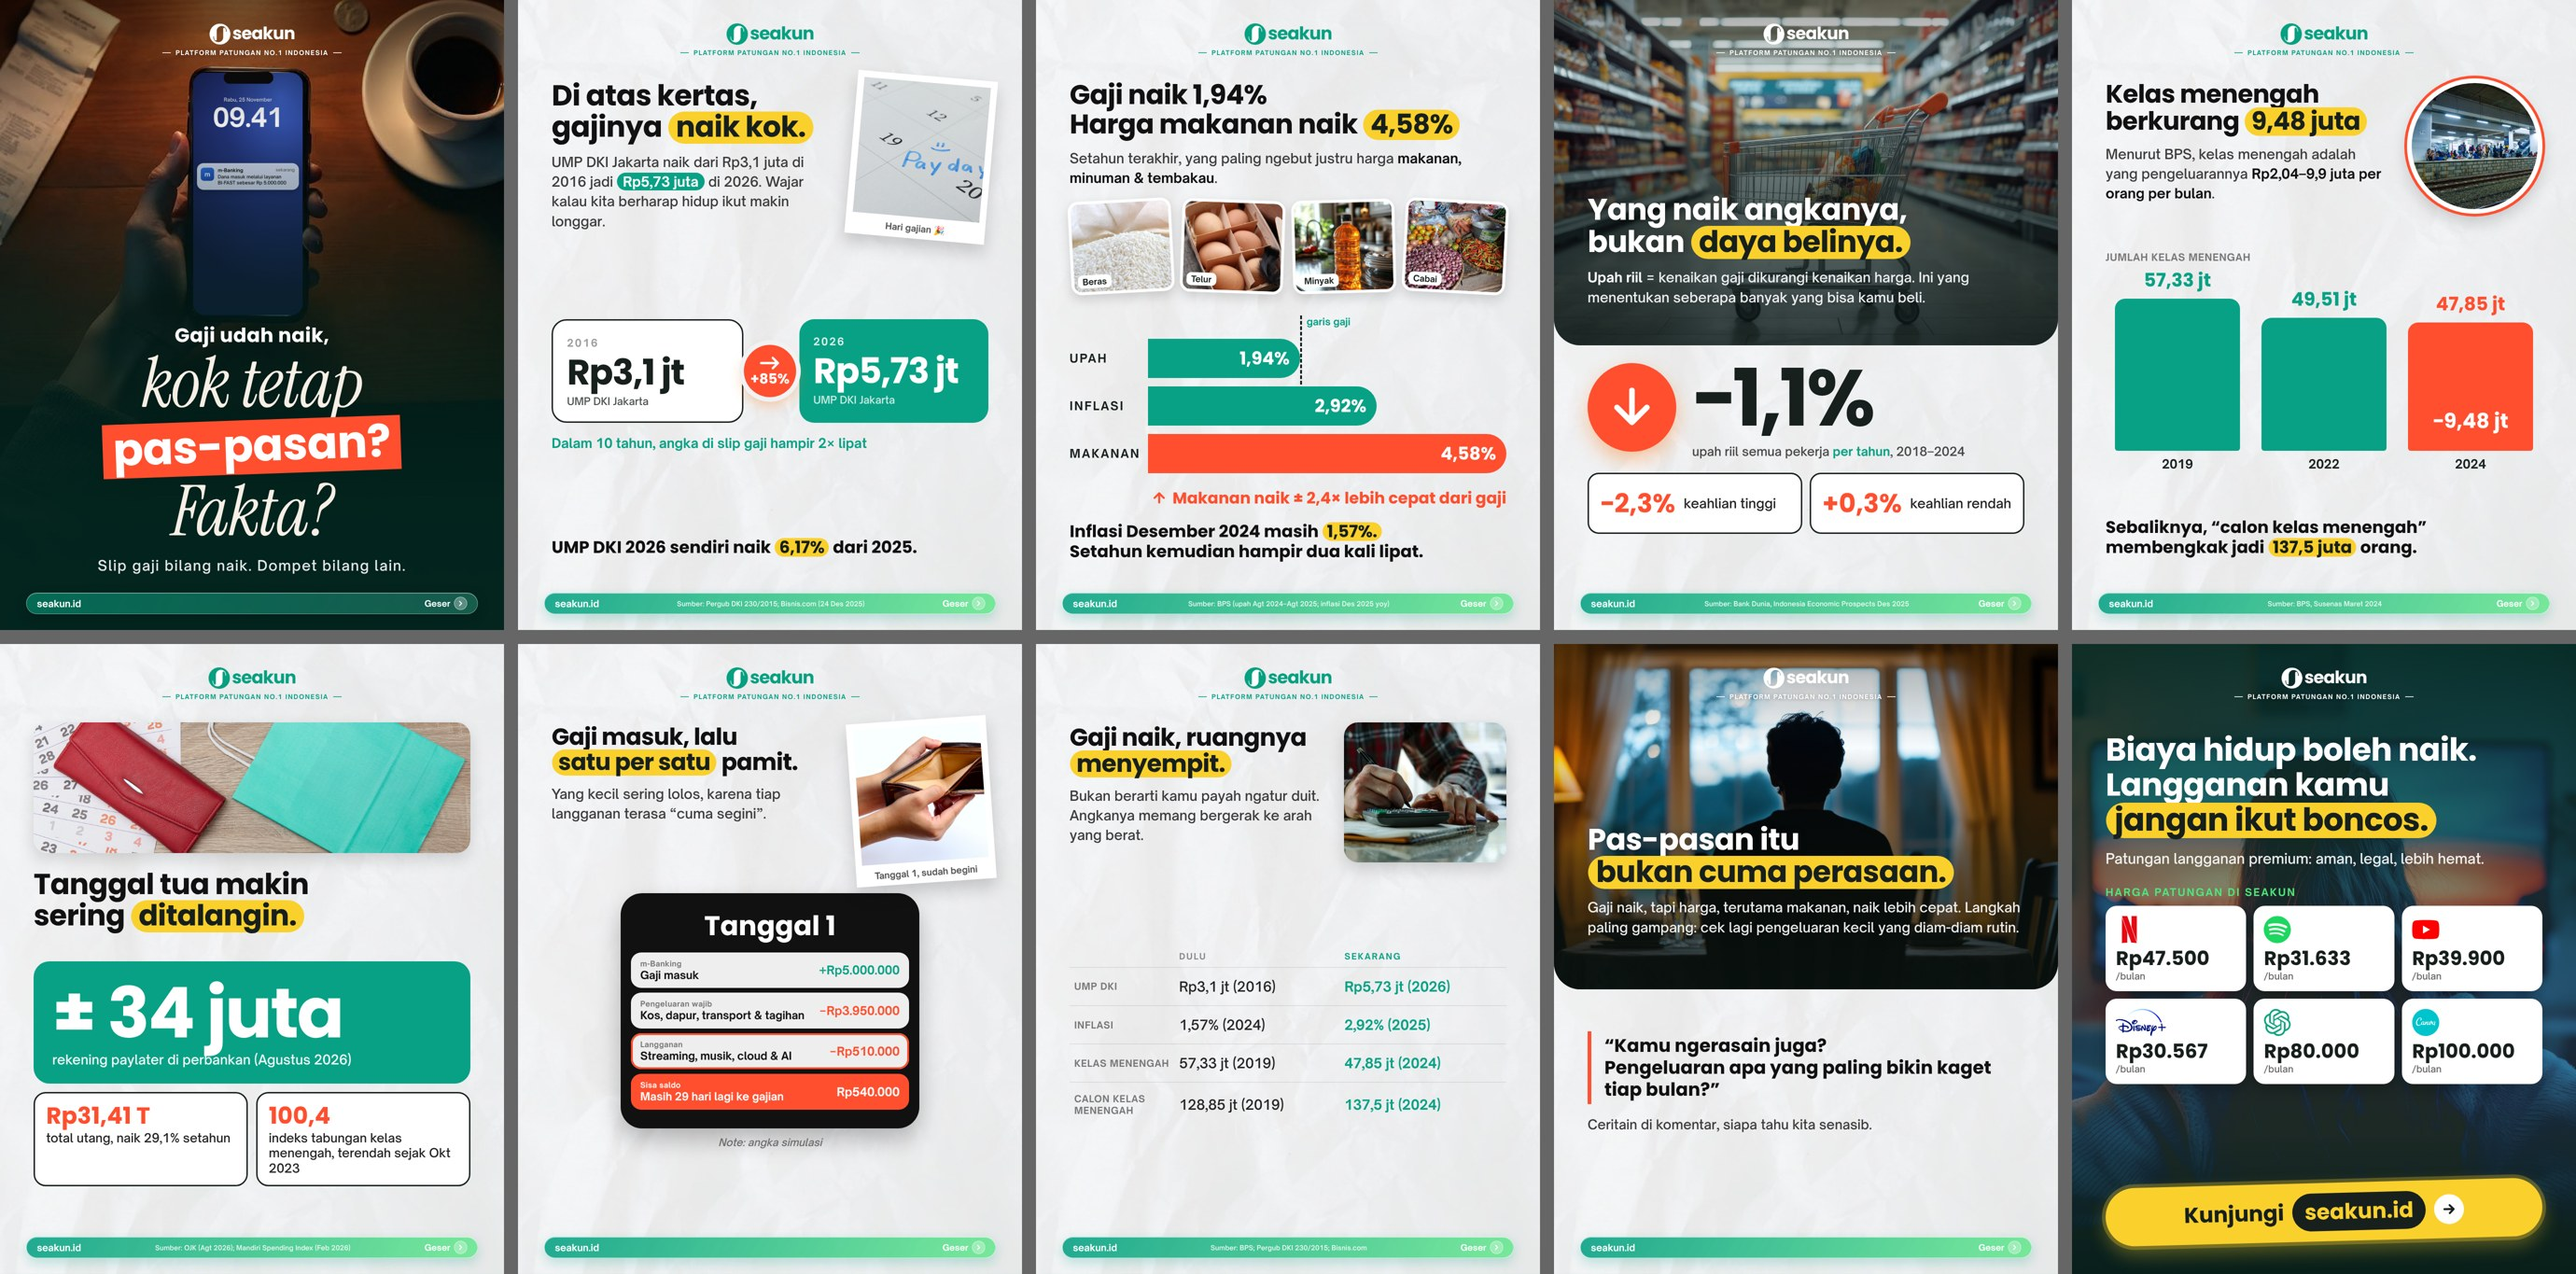
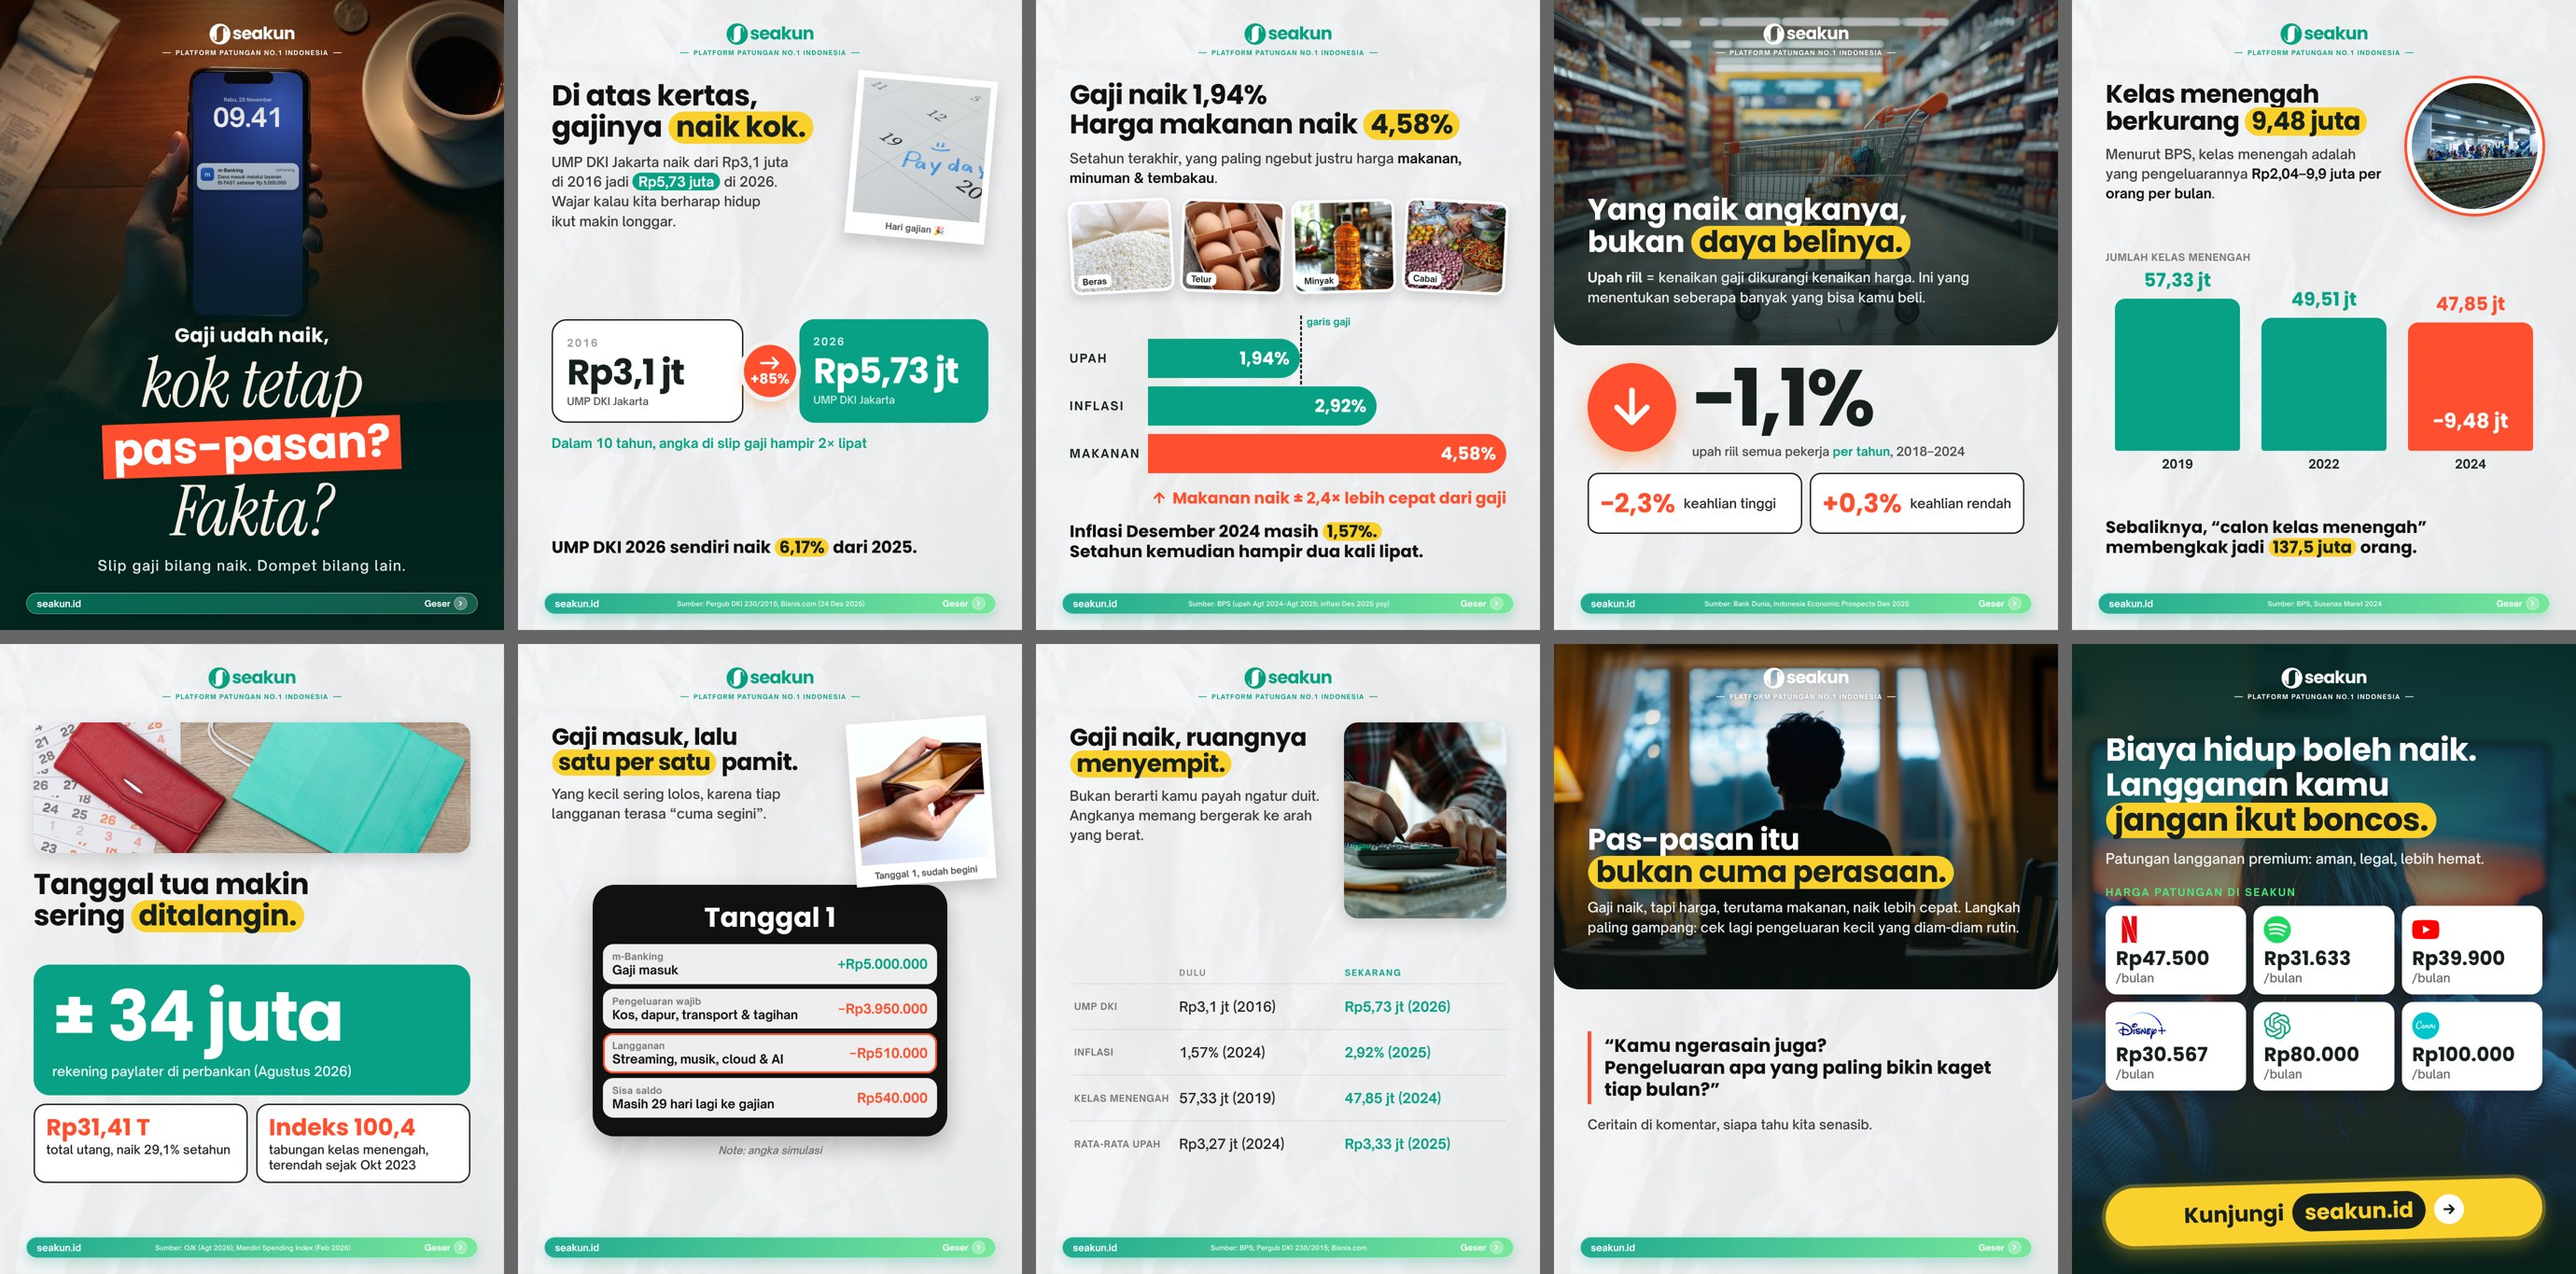
C-GAJI: terapkan temuan QA Tilik (orphan, ukuran teks kotak, sorotan notif, tabel)
Claude-Session: https://claude.ai/code/session_0151yEFVVwSd8fKr28vRAMgL

diff --git a/konten/brand/visual/render.py b/konten/brand/visual/render.py
@@ -327,7 +327,7 @@ body{font-family:BodyFont,sans-serif;color:%(text)s;position:relative}
 .vz .tb{width:100%%;border-collapse:collapse;font-size:29px}
 .vz .tb th{font-size:18px;letter-spacing:2.5px;text-transform:uppercase;color:#888;text-align:left;padding:0 10px 12px;font-weight:700}
 .vz .tb th.s,.vz .tb td.s{color:%(pink)s}
-.vz .tb td{padding:22px 10px;border-top:2px solid rgba(0,0,0,.08);line-height:1.25;font-weight:500;color:#222}
+.vz .tb td{padding:30px 10px;border-top:2px solid rgba(0,0,0,.08);line-height:1.25;font-weight:500;color:#222}
 .vz .tb td:first-child{color:#777;font-weight:600;font-size:20px;letter-spacing:1px;text-transform:uppercase;width:24%%}
 .vz .tb td.s{font-weight:700}
 .vz .ds li{list-style:none;display:flex;gap:16px;align-items:flex-start;font-size:28px;line-height:1.35;margin:14px 0;color:#222}
@@ -335,12 +335,12 @@ body{font-family:BodyFont,sans-serif;color:%(text)s;position:relative}
 .vz .kt{border-left:8px solid %(label)s;padding:8px 0 8px 28px;font-family:HeadFont,sans-serif;font-size:39px;line-height:1.2;color:#111}
 .vz .kt br+*{}
 .vz .kt small{display:block;font-family:BodyFont,sans-serif;font-size:22px;color:#777;margin-top:12px;font-weight:500}
-.hp{margin:6px auto 0;width:640px;border-radius:46px;background:#111;padding:26px 22px 30px;box-shadow:0 24px 50px rgba(0,0,0,.25)}
+.hp{margin:6px auto 0;width:760px;border-radius:46px;background:#111;padding:26px 22px 30px;box-shadow:0 24px 50px rgba(0,0,0,.25)}
 .hp .jam{color:#fff;text-align:center;font-family:HeadFont,sans-serif;font-size:58px;margin-bottom:14px}
 .hp .nt{background:rgba(255,255,255,.93);border-radius:22px;padding:14px 20px;margin:10px 0;display:flex;justify-content:space-between;align-items:center;gap:14px}
-.hp .nt .ap{font-size:16px;color:#777;font-weight:600;letter-spacing:.5px}
-.hp .nt .tx{font-size:23px;color:#111;font-weight:600;line-height:1.25}
-.hp .nt .rp{font-weight:700;font-size:25px;white-space:nowrap}
+.hp .nt .ap{font-size:20px;color:#777;font-weight:600;letter-spacing:.5px}
+.hp .nt .tx{font-size:26px;color:#111;font-weight:600;line-height:1.25}
+.hp .nt .rp{font-weight:700;font-size:28px;white-space:nowrap}
 .hp .nt .rp.p{color:%(pink)s}.hp .nt .rp.m{color:%(label)s}
 .hp .nt.akhir{background:%(label)s}.hp .nt.akhir .tx,.hp .nt.akhir .ap,.hp .nt.akhir .rp{color:#fff}
 .cta2{position:absolute;z-index:2;left:72px;right:72px;top:190px;bottom:118px;display:flex;flex-direction:column;color:#fff}
@@ -414,7 +414,7 @@ body{font-family:BodyFont,sans-serif;color:%(text)s;position:relative}
 .kol .kchip{position:absolute;right:20px;bottom:76px;width:calc((100%% - 40px - 92px)/3);text-align:center;font-family:HeadFont,sans-serif;font-size:44px;color:#fff}
 .ka{border-radius:34px;background:%(hj)s;color:#fff;padding:34px 40px}
 .ka .n{font-family:HeadFont,sans-serif;font-size:150px;line-height:1.02;letter-spacing:-4px}
-.ka .k{font-size:28px;margin-top:6px;opacity:.95}
+.ka .k{font-size:28px;margin-top:24px;opacity:.95}
 .ka .k *{color:#fff!important;background:none!important}
 .ka-m{display:flex;gap:18px;margin-top:18px}
 .ka-m div{flex:1;border-radius:26px;background:#fff;border:3px solid #17201D;padding:20px 24px}
@@ -430,7 +430,7 @@ body{font-family:BodyFont,sans-serif;color:%(text)s;position:relative}
 .cta2 .pv{background:#fff;border-radius:24px;padding:22px 22px 20px;display:flex;flex-direction:column;align-items:flex-start;box-shadow:0 12px 26px rgba(0,0,0,.25)}
 .cta2 .pv img{height:58px;max-width:170px;object-fit:contain;object-position:left center}
 .cta2 .pv b{font-family:HeadFont,sans-serif;font-weight:400;font-size:42px;color:#17201D;margin-top:12px;line-height:1}
-.cta2 .pv span{font-size:20px;color:#666;margin-top:4px}
+.cta2 .pv span{font-size:26px;color:#666;margin-top:4px}
 .cta2 .bt2{margin-top:auto;align-self:stretch;display:flex;align-items:center;justify-content:center;gap:18px;background:#FAD02C;color:#17201D;border-radius:70px;padding:22px 26px;font-family:HeadFont,sans-serif;font-size:46px;box-shadow:0 0 0 8px rgba(250,208,44,.28),0 18px 40px rgba(250,208,44,.35);transform:rotate(-1.5deg)}
 .cta2 .bt2 .w{background:#17201D;color:#FAD02C;border-radius:50px;padding:6px 26px}
 .cta2 .bt2 .ar{width:64px;height:64px;border-radius:50%%;background:#fff;display:flex;align-items:center;justify-content:center}
